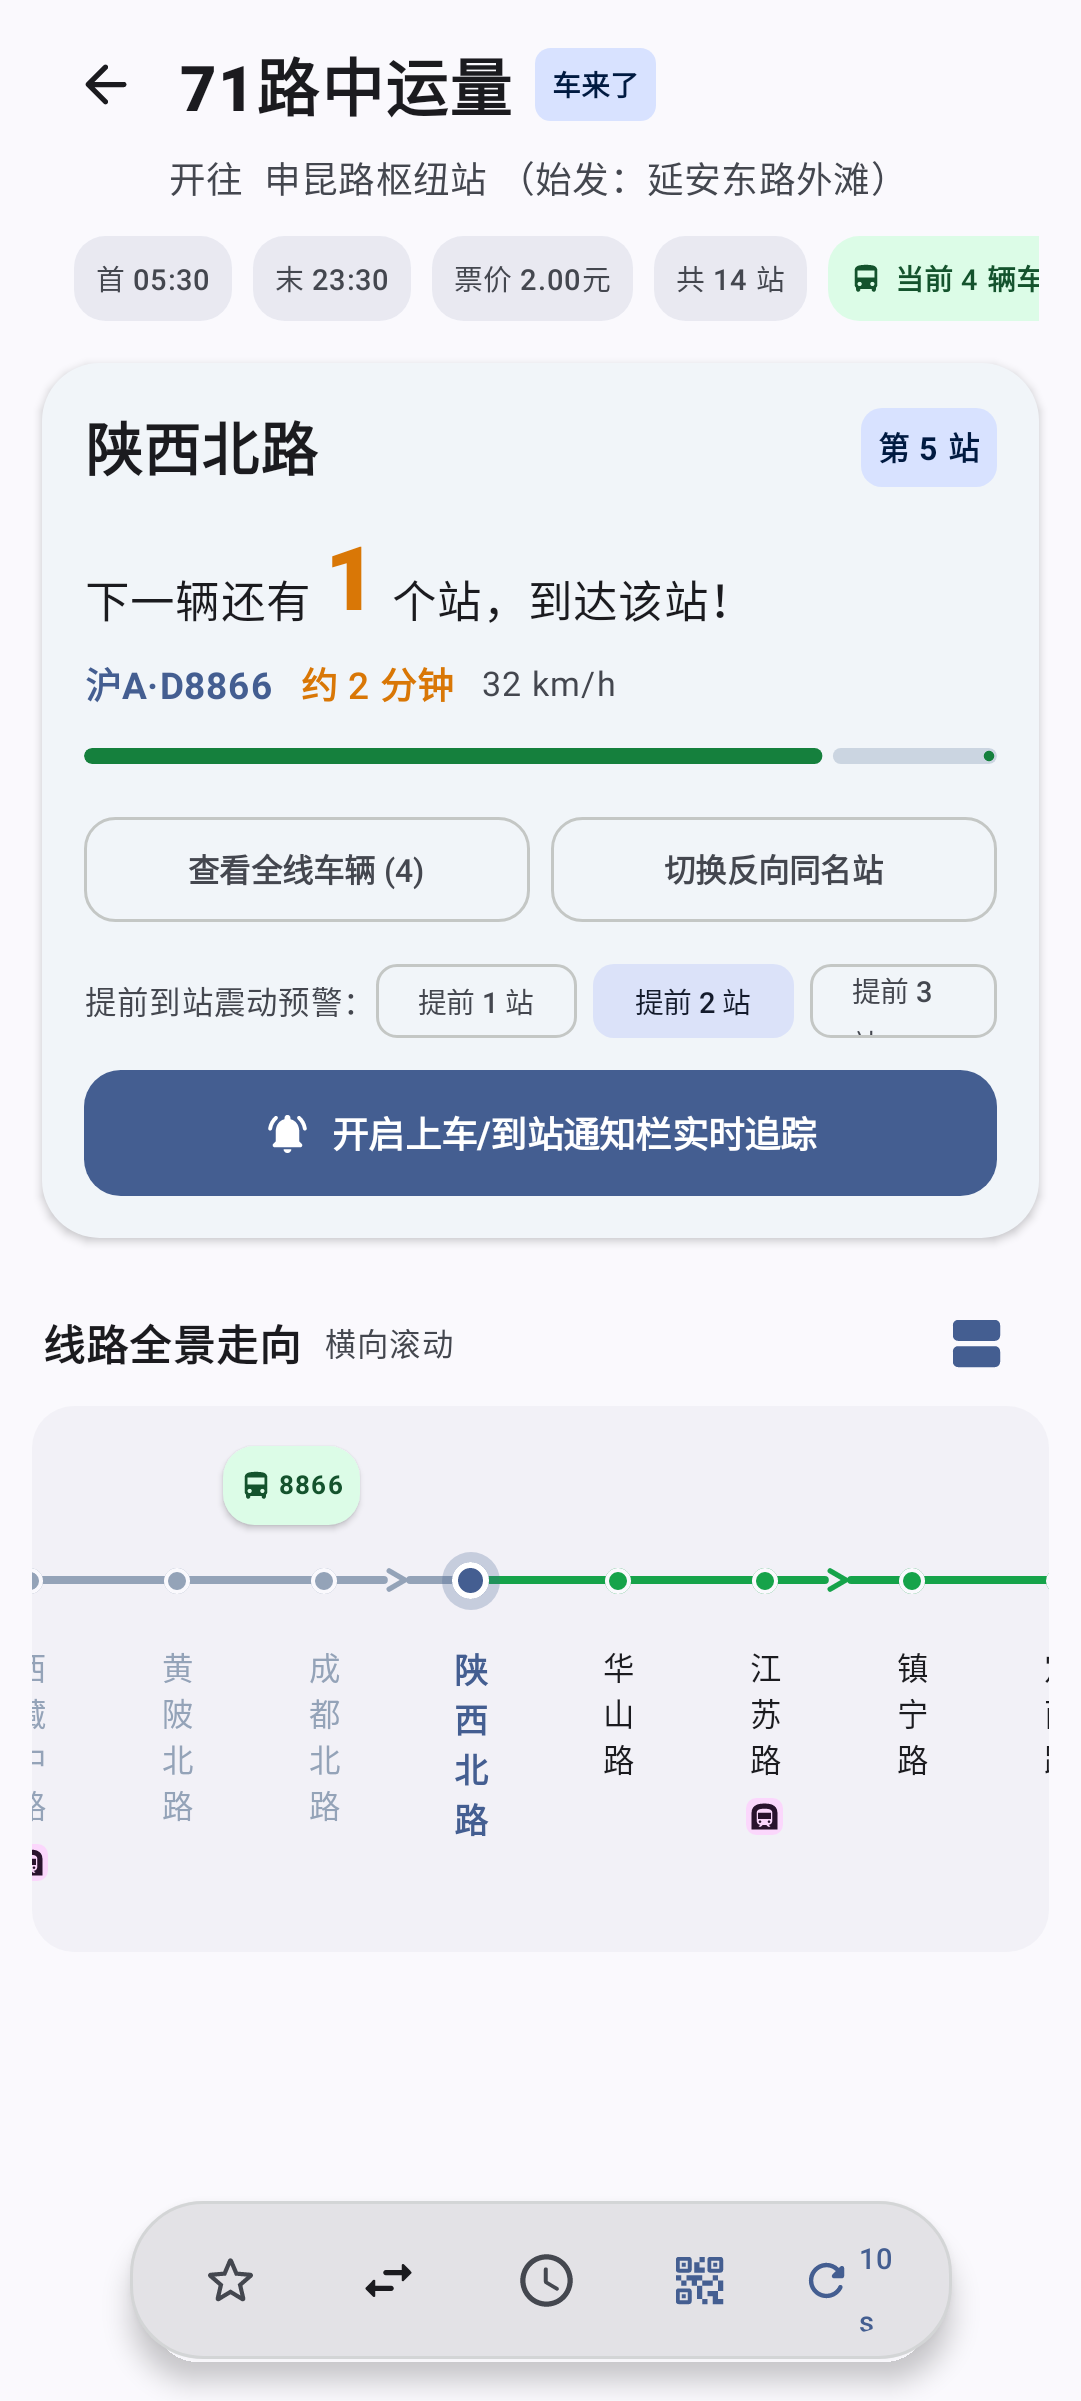
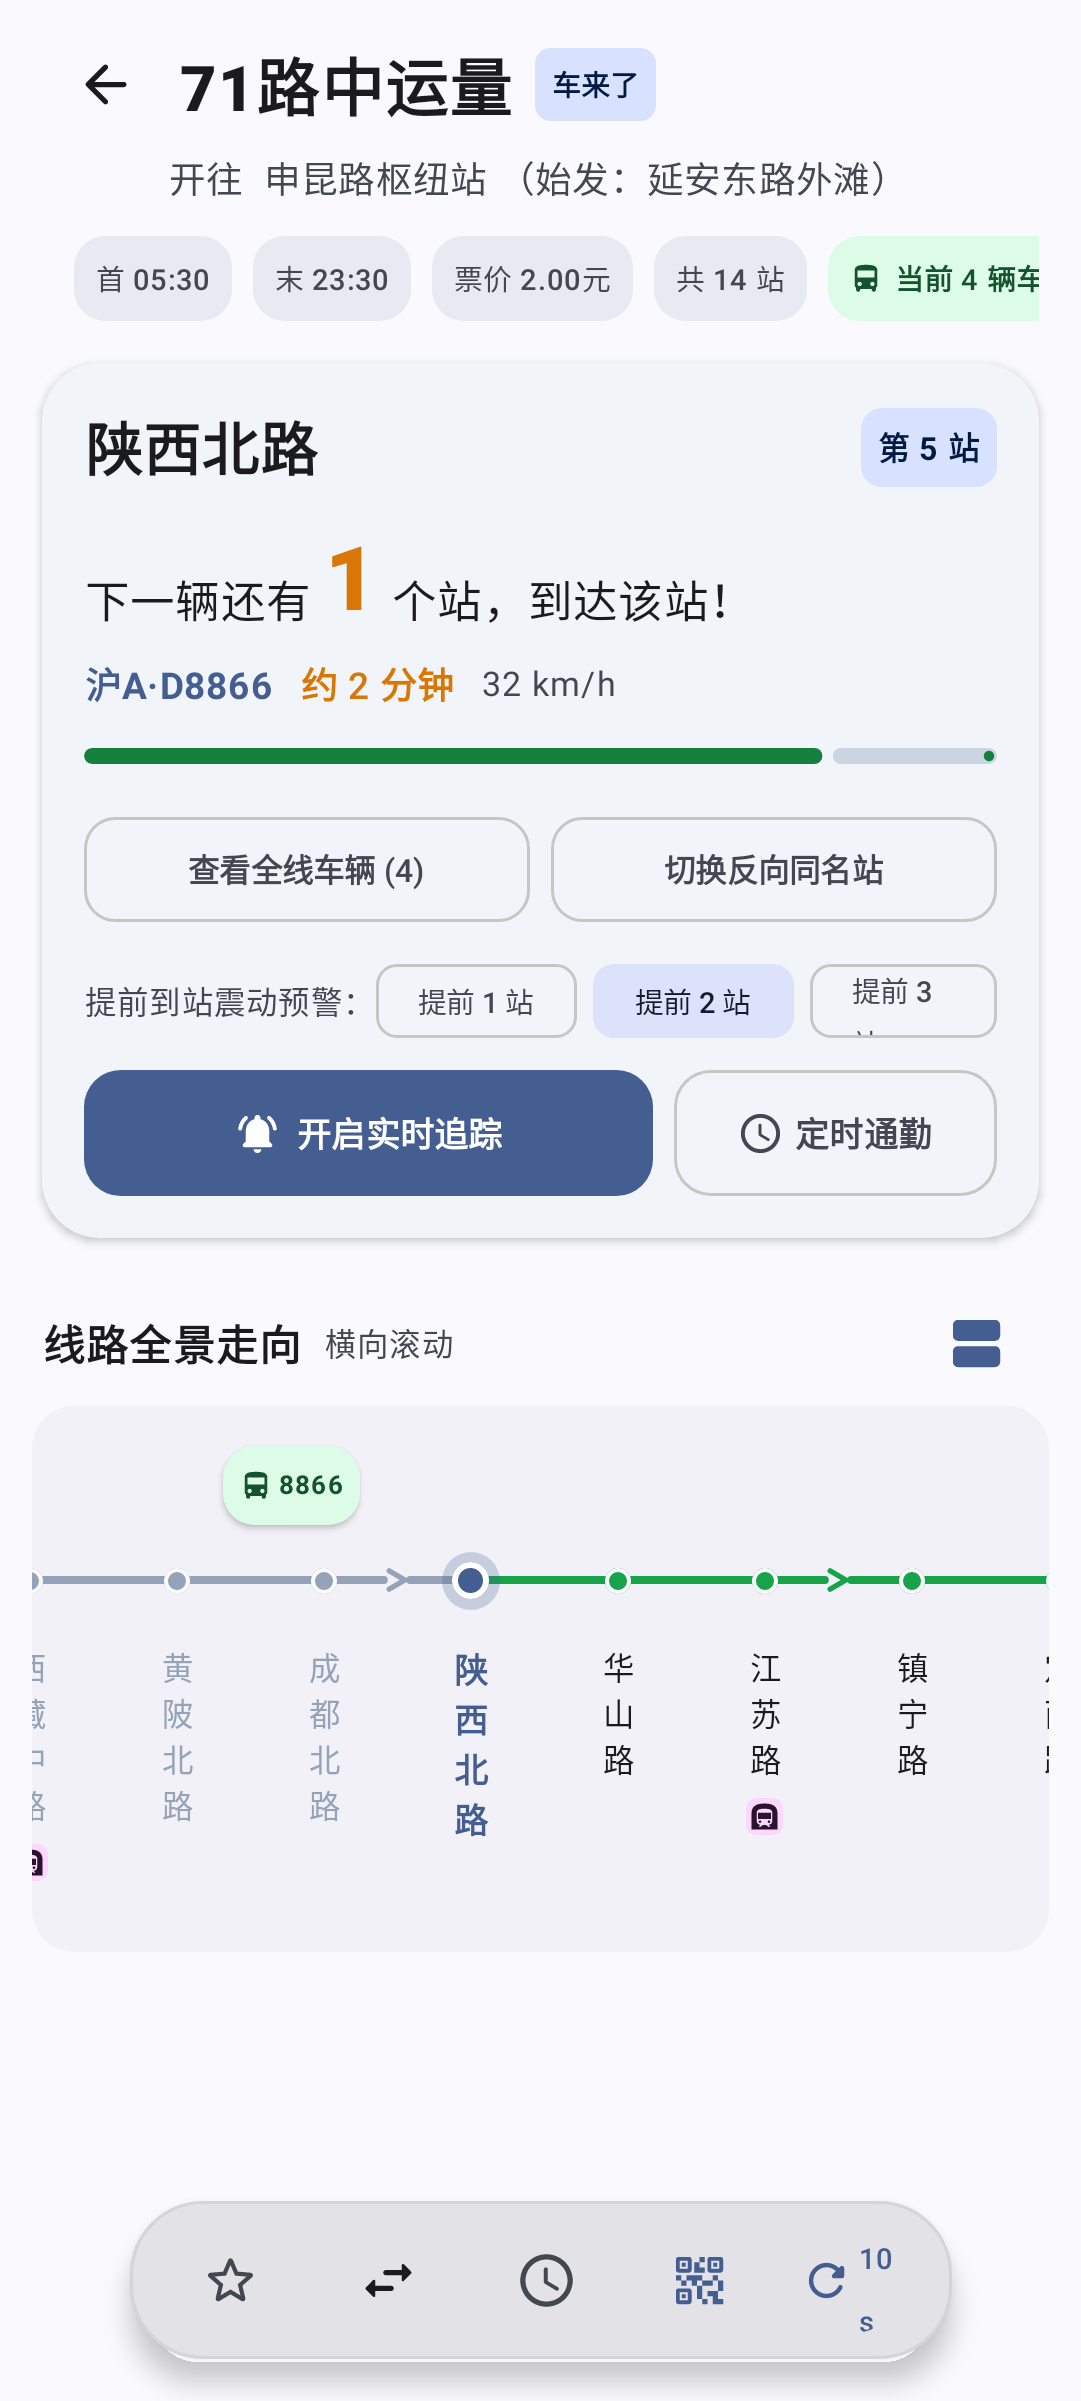
fix(ui):悬浮底栏白底问题

Changed region(s): [[0.2137, 0.4373, 0.9463, 0.4998]]

diff --git a/app/src/main/java/com/trackr/ui/screens/linedetail/LineDetailScreen.kt b/app/src/main/java/com/trackr/ui/screens/linedetail/LineDetailScreen.kt
@@ -160,80 +160,62 @@ fun LineDetailScreen(
     Scaffold(
         modifier = modifier.fillMaxSize(),
         contentWindowInsets = WindowInsets.safeDrawing,
-        containerColor = MaterialTheme.colorScheme.background,
-        bottomBar = {
-            // 底部 M3E 悬浮胶囊工具栏 (Floating Pill Toolbar)
-            BottomFloatingToolbar(
-                isFavorite = uiState.isFavorite,
-                flipRotation = { animatedFlipRotation },
-                hasReverseDirection = lineDetail?.reverseDirection != null,
-                countdownSeconds = uiState.refreshCountdownSeconds,
-                isRefreshing = uiState.isRefreshing,
-                onToggleFavorite = { viewModel.toggleFavoriteStop() },
-                onSwitchDirection = { viewModel.switchOppositeDirection() },
-                onOpenTimetable = { viewModel.loadTimetable() },
-                onOpenTransitCode = {
-                    when (uiState.preferredTransitCodeProvider) {
-                        TransitCodeProvider.ALIPAY -> TransitCodeHelper.openAlipayTransitCode(context)
-                        TransitCodeProvider.UNIONPAY -> TransitCodeHelper.openUnionPayTransitCode(context)
-                        TransitCodeProvider.ASK_ALWAYS -> viewModel.openTransitCodeSheet()
-                    }
-                },
-                onLongClickTransitCode = { viewModel.openTransitCodeSheet() },
-                onRefreshNow = { viewModel.refreshNow() }
-            )
-        }
+        containerColor = MaterialTheme.colorScheme.background
     ) { innerPadding ->
-        if (uiState.isLoading && lineDetail == null) {
-            Box(
-                modifier = Modifier
-                    .fillMaxSize()
-                    .padding(innerPadding),
-                contentAlignment = Alignment.Center
-            ) {
-                Column(horizontalAlignment = Alignment.CenterHorizontally) {
-                    CircularProgressIndicator(color = MaterialTheme.colorScheme.primary)
-                    Spacer(modifier = Modifier.height(16.dp))
-                    Text(
-                        text = "正在连接实时公交数据…",
-                        color = MaterialTheme.colorScheme.onSurfaceVariant,
-                        fontSize = 14.sp
-                    )
-                }
-            }
-            return@Scaffold
-        }
-
-        if (lineDetail == null) {
-            Box(
-                modifier = Modifier
-                    .fillMaxSize()
-                    .padding(innerPadding),
-                contentAlignment = Alignment.Center
-            ) {
-                Column(horizontalAlignment = Alignment.CenterHorizontally) {
-                    Text(
-                        text = uiState.errorMessage ?: "未获取到该线路信息",
-                        color = MaterialTheme.colorScheme.error,
-                        fontSize = 15.sp,
-                        textAlign = TextAlign.Center
-                    )
-                    Spacer(modifier = Modifier.height(12.dp))
-                    Button(onClick = { viewModel.refreshNow() }) {
-                        Text("重试")
-                    }
-                }
-            }
-            return@Scaffold
-        }
-
-        Column(
+        Box(
             modifier = Modifier
                 .fillMaxSize()
-                .padding(innerPadding)
                 .consumeWindowInsets(innerPadding)
-                .verticalScroll(rememberScrollState())
         ) {
+            if (uiState.isLoading && lineDetail == null) {
+                Box(
+                    modifier = Modifier
+                        .fillMaxSize()
+                        .padding(top = innerPadding.calculateTopPadding()),
+                    contentAlignment = Alignment.Center
+                ) {
+                    Column(horizontalAlignment = Alignment.CenterHorizontally) {
+                        CircularProgressIndicator(color = MaterialTheme.colorScheme.primary)
+                        Spacer(modifier = Modifier.height(16.dp))
+                        Text(
+                            text = "正在连接实时公交数据…",
+                            color = MaterialTheme.colorScheme.onSurfaceVariant,
+                            fontSize = 14.sp
+                        )
+                    }
+                }
+                return@Box
+            }
+
+            if (lineDetail == null) {
+                Box(
+                    modifier = Modifier
+                        .fillMaxSize()
+                        .padding(top = innerPadding.calculateTopPadding()),
+                    contentAlignment = Alignment.Center
+                ) {
+                    Column(horizontalAlignment = Alignment.CenterHorizontally) {
+                        Text(
+                            text = uiState.errorMessage ?: "未获取到该线路信息",
+                            color = MaterialTheme.colorScheme.error,
+                            fontSize = 15.sp,
+                            textAlign = TextAlign.Center
+                        )
+                        Spacer(modifier = Modifier.height(12.dp))
+                        Button(onClick = { viewModel.refreshNow() }) {
+                            Text("重试")
+                        }
+                    }
+                }
+                return@Box
+            }
+
+            Column(
+                modifier = Modifier
+                    .fillMaxSize()
+                    .padding(top = innerPadding.calculateTopPadding())
+                    .verticalScroll(rememberScrollState())
+            ) {
             // 1. 顶部 Header：返回键、线路名徽标、数据源标签、首末站方向与运营胶囊
             TopLineHeader(
                 lineDetail = lineDetail,
@@ -422,9 +404,37 @@ fun LineDetailScreen(
                 )
             }
 
-            Spacer(modifier = Modifier.height(96.dp)) // 为底部悬浮工具栏留白
+            // 为底部悬浮工具栏留白（工具栏高度约 56dp + 悬浮间距 16dp + 导航栏高度 + 呼吸空间）
+            Spacer(
+                modifier = Modifier
+                    .navigationBarsPadding()
+                    .height(96.dp)
+            )
         }
+
+        // 底部 M3E 悬浮胶囊工具栏 (Floating Pill Toolbar) 浮动于内容之上，背景透明无遮挡
+        BottomFloatingToolbar(
+            modifier = Modifier.align(Alignment.BottomCenter),
+            isFavorite = uiState.isFavorite,
+            flipRotation = { animatedFlipRotation },
+            hasReverseDirection = lineDetail.reverseDirection != null,
+            countdownSeconds = uiState.refreshCountdownSeconds,
+            isRefreshing = uiState.isRefreshing,
+            onToggleFavorite = { viewModel.toggleFavoriteStop() },
+            onSwitchDirection = { viewModel.switchOppositeDirection() },
+            onOpenTimetable = { viewModel.loadTimetable() },
+            onOpenTransitCode = {
+                when (uiState.preferredTransitCodeProvider) {
+                    TransitCodeProvider.ALIPAY -> TransitCodeHelper.openAlipayTransitCode(context)
+                    TransitCodeProvider.UNIONPAY -> TransitCodeHelper.openUnionPayTransitCode(context)
+                    TransitCodeProvider.ASK_ALWAYS -> viewModel.openTransitCodeSheet()
+                }
+            },
+            onLongClickTransitCode = { viewModel.openTransitCodeSheet() },
+            onRefreshNow = { viewModel.refreshNow() }
+        )
     }
+}
 
     // 4. 发车时刻表 BottomSheet 弹窗
     if (uiState.isTimetableSheetOpen && uiState.timetable != null) {
@@ -1393,6 +1403,7 @@ private fun BusFollowContent(
 @OptIn(ExperimentalFoundationApi::class)
 @Composable
 private fun BottomFloatingToolbar(
+    modifier: Modifier = Modifier,
     isFavorite: Boolean,
     flipRotation: () -> Float,
     hasReverseDirection: Boolean,
@@ -1408,7 +1419,7 @@ private fun BottomFloatingToolbar(
     val haptic = LocalHapticFeedback.current
 
     Box(
-        modifier = Modifier
+        modifier = modifier
             .fillMaxWidth()
             .navigationBarsPadding()
             .padding(bottom = 16.dp),
